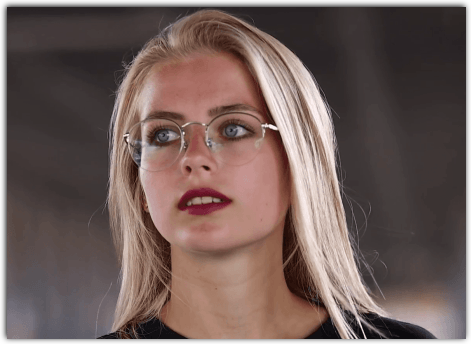
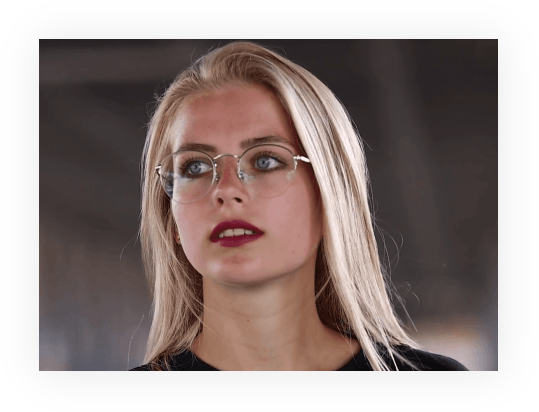
update

diff --git a/readme.md b/readme.md
@@ -4,14 +4,18 @@
 ![](https://raw.githubusercontent.com/yKesamaru/imagemagick_shadow/master/graph_2_no_shadow.png)
 こうしたい。
 ![](https://raw.githubusercontent.com/yKesamaru/imagemagick_shadow/master/graph_2_shadow.png)
-![](https://raw.githubusercontent.com/yKesamaru/imagemagick_shadow/master/output.png)
+こういう写真は
+![](https://raw.githubusercontent.com/yKesamaru/imagemagick_shadow/master/input.png)
+こうしたい。
+![](https://raw.githubusercontent.com/yKesamaru/imagemagick_shadow/master/last.png)
+
 
 Bashでかくとこうなる。
 ```bash:-shadow
 convert input.png \
-    \( +clone -background black -shadow 20x4+1+1 \) \
+    \( +clone -background black -shadow 10x20+1+1 \) \
     +swap -background none -layers merge +repage \
-    output.png
+    graph_2_shadow.png
 ```
   
 # 環境
